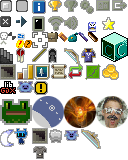
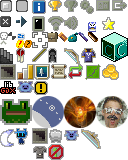
1.2.1: added no sou and hell

Changed region(s): [[0.375, 0.875, 0.5, 1.0]]

diff --git a/core/src/main/java/com/shatteredpixel/shatteredpixeldungeon/Challenges.java b/core/src/main/java/com/shatteredpixel/shatteredpixeldungeon/Challenges.java
@@ -26,6 +26,15 @@ package com.shatteredpixel.shatteredpixeldungeon;
 
 import com.shatteredpixel.shatteredpixeldungeon.items.Dewdrop;
 import com.shatteredpixel.shatteredpixeldungeon.items.Item;
+import com.shatteredpixel.shatteredpixeldungeon.items.artifacts.ChaliceOfBlood;
+import com.shatteredpixel.shatteredpixeldungeon.items.artifacts.SoulOfYendor;
+import com.shatteredpixel.shatteredpixeldungeon.items.bombs.RegrowthBomb;
+import com.shatteredpixel.shatteredpixeldungeon.items.potions.PotionOfHealing;
+import com.shatteredpixel.shatteredpixeldungeon.items.potions.elixirs.ElixirOfHoneyedHealing;
+import com.shatteredpixel.shatteredpixeldungeon.items.potions.exotic.PotionOfShielding;
+import com.shatteredpixel.shatteredpixeldungeon.items.scrolls.ScrollOfUpgrade;
+import com.shatteredpixel.shatteredpixeldungeon.items.weapon.missiles.darts.HealingDart;
+import com.shatteredpixel.shatteredpixeldungeon.plants.Sungrass;
 
 public class Challenges {
 
@@ -67,6 +76,17 @@ public class Challenges {
 		if (Dungeon.isChallenged(NO_HERBALISM) && item instanceof Dewdrop){
 			return true;
 		}
+		if (Dungeon.mode == Dungeon.GameMode.NO_SOU && item instanceof ScrollOfUpgrade){
+			return true;
+		}
+		if (Dungeon.mode == Dungeon.GameMode.HELL && (
+			item instanceof PotionOfHealing || item instanceof Sungrass.Seed ||
+					item instanceof Dewdrop || item instanceof ChaliceOfBlood ||
+					item instanceof SoulOfYendor || item instanceof PotionOfShielding ||
+					item instanceof ElixirOfHoneyedHealing || item instanceof RegrowthBomb ||
+					item instanceof HealingDart
+				))
+			return true;
 
 		return false;
 

diff --git a/core/src/main/java/com/shatteredpixel/shatteredpixeldungeon/items/food/Food.java b/core/src/main/java/com/shatteredpixel/shatteredpixeldungeon/items/food/Food.java
@@ -38,6 +38,8 @@ import com.watabou.noosa.audio.Sample;
 
 import java.util.ArrayList;
 
+import static com.shatteredpixel.shatteredpixeldungeon.Dungeon.GameMode.HELL;
+
 public class Food extends Item {
 
 	public static final float TIME_TO_EAT	= 3f;
@@ -96,11 +98,11 @@ public class Food extends Item {
 	protected void satisfy( Hero hero ){
 		if (Dungeon.isChallenged(Challenges.NO_FOOD)) {
 			Buff.affect(hero, Hunger.class).satisfy(energy/3f);
-			if (regen > 0) Buff.affect(hero, FoodRegen.class).fullHP = regen/3;
+			if (regen > 0 && Dungeon.mode != HELL) Buff.affect(hero, FoodRegen.class).fullHP = regen/3;
 			if (regen < 0) Buff.affect(hero, FoodDebuff.class).fullHP = -regen/3;
 		} else {
 			Buff.affect(hero, Hunger.class).satisfy( energy );
-			if (regen > 0) Buff.affect(hero, FoodRegen.class).fullHP = regen;
+			if (regen > 0 && Dungeon.mode != HELL) Buff.affect(hero, FoodRegen.class).fullHP = regen;
 			if (regen < 0) Buff.affect(hero, FoodDebuff.class).fullHP = -regen;
 		}
 	}
@@ -113,7 +115,7 @@ public class Food extends Item {
 				ScrollOfRecharging.charge( hero );
 				break;
 			case CONJURER:
-				if (hero.HP < hero.HT) {
+				if (hero.HP < hero.HT && Dungeon.mode != HELL) {
 					hero.HP = Math.min( hero.HP + 5, hero.HT );
 					hero.sprite.emitter().burst( Speck.factory( Speck.HEALING ), 1 );
 				}

diff --git a/core/src/main/java/com/shatteredpixel/shatteredpixeldungeon/items/food/FrozenCarpaccio.java b/core/src/main/java/com/shatteredpixel/shatteredpixeldungeon/items/food/FrozenCarpaccio.java
@@ -24,6 +24,7 @@
 
 package com.shatteredpixel.shatteredpixeldungeon.items.food;
 
+import com.shatteredpixel.shatteredpixeldungeon.Dungeon;
 import com.shatteredpixel.shatteredpixeldungeon.actors.buffs.Barkskin;
 import com.shatteredpixel.shatteredpixeldungeon.actors.buffs.Buff;
 import com.shatteredpixel.shatteredpixeldungeon.actors.buffs.Invisibility;
@@ -68,10 +69,12 @@ public class FrozenCarpaccio extends Food {
 				PotionOfHealing.cure(hero);
 				break;
 			case 3:
-				GLog.i( Messages.get(FrozenCarpaccio.class, "better") );
-				if (hero.HP < hero.HT) {
-					hero.HP = Math.min( hero.HP + hero.HT / 4, hero.HT );
-					hero.sprite.emitter().burst( Speck.factory( Speck.HEALING ), 1 );
+				if (Dungeon.mode != Dungeon.GameMode.HELL) {
+					GLog.i(Messages.get(FrozenCarpaccio.class, "better"));
+					if (hero.HP < hero.HT) {
+						hero.HP = Math.min(hero.HP + hero.HT / 4, hero.HT);
+						hero.sprite.emitter().burst(Speck.factory(Speck.HEALING), 1);
+					}
 				}
 				break;
 		}

diff --git a/core/src/main/java/com/shatteredpixel/shatteredpixeldungeon/items/food/Pasty.java b/core/src/main/java/com/shatteredpixel/shatteredpixeldungeon/items/food/Pasty.java
@@ -24,6 +24,7 @@
 
 package com.shatteredpixel.shatteredpixeldungeon.items.food;
 
+import com.shatteredpixel.shatteredpixeldungeon.Dungeon;
 import com.shatteredpixel.shatteredpixeldungeon.actors.buffs.Buff;
 import com.shatteredpixel.shatteredpixeldungeon.actors.buffs.Recharging;
 import com.shatteredpixel.shatteredpixeldungeon.actors.hero.Hero;
@@ -107,8 +108,10 @@ public class Pasty extends Food {
 				break; //do nothing extra
 			case HWEEN:
 				//heals for 10% max hp
-				hero.HP = Math.min(hero.HP + hero.HT/10, hero.HT);
-				hero.sprite.emitter().burst( Speck.factory( Speck.HEALING ), 1 );
+				if (Dungeon.mode != Dungeon.GameMode.HELL) {
+					hero.HP = Math.min(hero.HP + hero.HT / 10, hero.HT);
+					hero.sprite.emitter().burst(Speck.factory(Speck.HEALING), 1);
+				}
 				break;
 			case XMAS:
 				Buff.affect( hero, Recharging.class, 2f ); //half of a charge

diff --git a/core/src/main/java/com/shatteredpixel/shatteredpixeldungeon/items/weapon/melee/shop/Jjango.java b/core/src/main/java/com/shatteredpixel/shatteredpixeldungeon/items/weapon/melee/shop/Jjango.java
@@ -64,9 +64,11 @@ public class Jjango extends MeleeWeapon {
                 bloodAmount += amt;
             }
             blood.detach();
-            Dungeon.hero.HP = (int) Math.min(Dungeon.hero.HP + bloodAmount, Dungeon.hero.HT);
-            Dungeon.hero.sprite.emitter().start( Speck.factory( Speck.HEALING ), 0.4f, 1 );
-            Dungeon.hero.sprite.showStatus( CharSprite.POSITIVE, Integer.toString((int) bloodAmount) );
+            if (Dungeon.mode != Dungeon.GameMode.HELL) {
+                Dungeon.hero.HP = (int) Math.min(Dungeon.hero.HP + bloodAmount, Dungeon.hero.HT);
+                Dungeon.hero.sprite.emitter().start(Speck.factory(Speck.HEALING), 0.4f, 1);
+                Dungeon.hero.sprite.showStatus(CharSprite.POSITIVE, Integer.toString((int) bloodAmount));
+            }
         }
         return 0;
     }

diff --git a/core/src/main/java/com/shatteredpixel/shatteredpixeldungeon/ui/Icons.java b/core/src/main/java/com/shatteredpixel/shatteredpixeldungeon/ui/Icons.java
@@ -82,6 +82,8 @@ public enum Icons {
 	SHRINKING,
 	ENLARGEMENT,
 	EXPLORE,
+	SOULLESS,
+	HELL_CHEST,
 	
 	//misc icons
 	LIBGDX,
@@ -262,7 +264,7 @@ public enum Icons {
 			icon.scale.set(PixelScene.align(0.49f));
 			break;
 		case GAUNTLET:
-			icon.frame( icon.texture.uvRect( 48, 128, 64, 144 ) );
+			icon.frame( icon.texture.uvRect( 48, 128, 63, 144 ) );
 			break;
 		case SHRINKING:
 			icon.frame( icon.texture.uvRect( 63, 128, 81, 143 ) );
@@ -272,6 +274,12 @@ public enum Icons {
 			break;
 		case EXPLORE:
 			icon.frame( icon.texture.uvRect( 32, 144, 48, 160 ) );
+			break;
+		case SOULLESS:
+			icon.frame( icon.texture.uvRect( 48, 144, 64, 160 ) );
+			break;
+		case HELL_CHEST:
+			icon.frame( icon.texture.uvRect( 64, 145, 80, 159 ) );
 			break;
 
 		}

diff --git a/core/src/main/java/com/shatteredpixel/shatteredpixeldungeon/levels/rooms/secret/SecretWellRoom.java b/core/src/main/java/com/shatteredpixel/shatteredpixeldungeon/levels/rooms/secret/SecretWellRoom.java
@@ -24,6 +24,7 @@
 
 package com.shatteredpixel.shatteredpixeldungeon.levels.rooms.secret;
 
+import com.shatteredpixel.shatteredpixeldungeon.Dungeon;
 import com.shatteredpixel.shatteredpixeldungeon.actors.blobs.WaterOfAwareness;
 import com.shatteredpixel.shatteredpixeldungeon.actors.blobs.WaterOfHealth;
 import com.shatteredpixel.shatteredpixeldungeon.actors.blobs.WellWater;
@@ -66,6 +67,7 @@ public class SecretWellRoom extends SecretRoom {
 		
 		@SuppressWarnings("unchecked")
 		Class<? extends WellWater> waterClass = (Class<? extends WellWater>) Random.element( WATERS );
+		if (Dungeon.mode == Dungeon.GameMode.HELL) waterClass = WaterOfAwareness.class;
 		
 		WellWater.seed(well.x + level.width() * well.y, 1, waterClass, level);
 		

diff --git a/core/src/main/java/com/shatteredpixel/shatteredpixeldungeon/levels/rooms/special/MagicWellRoom.java b/core/src/main/java/com/shatteredpixel/shatteredpixeldungeon/levels/rooms/special/MagicWellRoom.java
@@ -24,6 +24,7 @@
 
 package com.shatteredpixel.shatteredpixeldungeon.levels.rooms.special;
 
+import com.shatteredpixel.shatteredpixeldungeon.Dungeon;
 import com.shatteredpixel.shatteredpixeldungeon.actors.blobs.WaterOfAwareness;
 import com.shatteredpixel.shatteredpixeldungeon.actors.blobs.WaterOfHealth;
 import com.shatteredpixel.shatteredpixeldungeon.actors.blobs.WellWater;
@@ -53,6 +54,7 @@ public class MagicWellRoom extends SpecialRoom {
 			overrideWater != null ?
 			overrideWater :
 			(Class<? extends WellWater>)Random.element( WATERS );
+		if (Dungeon.mode == Dungeon.GameMode.HELL) waterClass = WaterOfAwareness.class;
 			
 		
 		WellWater.seed(c.x + level.width() * c.y, 1, waterClass, level);

diff --git a/core/src/main/java/com/shatteredpixel/shatteredpixeldungeon/items/bombs/SupplyBomb.java b/core/src/main/java/com/shatteredpixel/shatteredpixeldungeon/items/bombs/SupplyBomb.java
@@ -99,9 +99,10 @@ public class SupplyBomb extends Bomb {
 				PathFinder.buildDistanceMap( cell, BArray.not( Dungeon.level.solid, null ), 2 );
 				for (int i = 0; i < PathFinder.distance.length; i++) {
 					if (PathFinder.distance[i] < Integer.MAX_VALUE && Dungeon.hero.pos == i) {
-
-						CellEmitter.get(i).burst(Speck.factory(Speck.HEALING), 1);
-						Dungeon.hero.HP = Math.min(Dungeon.hero.HP + 1, Dungeon.hero.HT);
+						if (Dungeon.mode != Dungeon.GameMode.HELL) {
+							CellEmitter.get(i).burst(Speck.factory(Speck.HEALING), 1);
+							Dungeon.hero.HP = Math.min(Dungeon.hero.HP + 1, Dungeon.hero.HT);
+						}
 						Hunger.adjustHunger(8f);
 					}
 				}

diff --git a/core/src/main/java/com/shatteredpixel/shatteredpixeldungeon/actors/mobs/Mob.java b/core/src/main/java/com/shatteredpixel/shatteredpixeldungeon/actors/mobs/Mob.java
@@ -665,8 +665,10 @@ public abstract class Mob extends Char {
 			}
 
 			Buff.affect(Dungeon.hero, Hunger.class).satisfy(restoration);
-			Dungeon.hero.HP = (int)Math.ceil(Math.min(Dungeon.hero.HT, Dungeon.hero.HP+(restoration*0.4f)));
-			Dungeon.hero.sprite.emitter().burst( Speck.factory(Speck.HEALING), 1 );
+			if (Dungeon.mode != Dungeon.GameMode.HELL) {
+				Dungeon.hero.HP = (int) Math.ceil(Math.min(Dungeon.hero.HT, Dungeon.hero.HP + (restoration * 0.4f)));
+				Dungeon.hero.sprite.emitter().burst(Speck.factory(Speck.HEALING), 1);
+			}
 		}
 
 		if (buff(Chungus.class) != null) damage *= 0.6f;

diff --git a/core/src/main/java/com/shatteredpixel/shatteredpixeldungeon/items/quest/CleanWater.java b/core/src/main/java/com/shatteredpixel/shatteredpixeldungeon/items/quest/CleanWater.java
@@ -92,7 +92,13 @@ public class CleanWater extends Item {
 
 	public void apply( Hero hero ) {
 
-		hero.HP = hero.HT;
+
+		if (Dungeon.mode == Dungeon.GameMode.HELL){
+		    hero.HP = Math.min(hero.HT, hero.HP + hero.HT / 2);
+        }
+		else {
+            hero.HP = hero.HT;
+        }
         hero.sprite.emitter().start( Speck.factory( Speck.HEALING ), 0.4f, 4 );
 		cure( hero );
 		GLog.positive( Messages.get(PotionOfHealing.class, "heal") );

diff --git a/core/src/main/java/com/shatteredpixel/shatteredpixeldungeon/actors/buffs/SoulCache.java b/core/src/main/java/com/shatteredpixel/shatteredpixeldungeon/actors/buffs/SoulCache.java
@@ -46,7 +46,8 @@ public class SoulCache extends Buff {
     private final String SOUL = "soul";
 
     public static void investHealth(float health){
-        Buff.affect(Dungeon.hero, SoulCache.class).health += health;
+        if (Dungeon.mode != Dungeon.GameMode.HELL)
+            Buff.affect(Dungeon.hero, SoulCache.class).health += health;
     }
 
     public static void investSoul(float soul){
